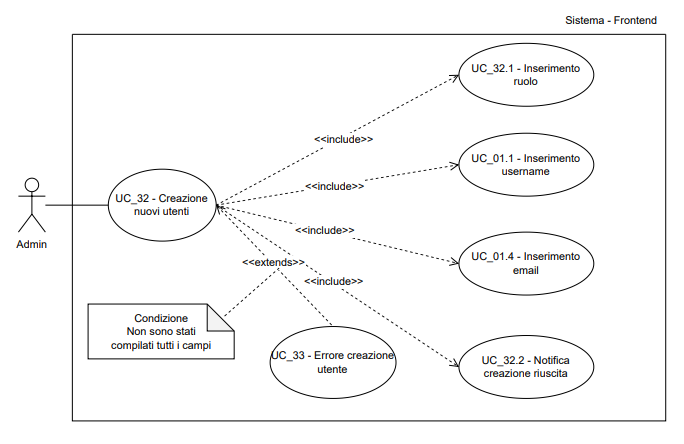
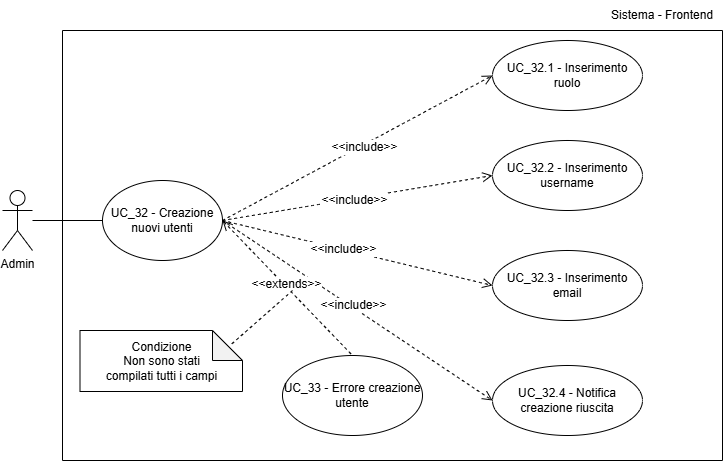
Modifiche sottocasi

diff --git a/src/RTB/Documenti Esterni/Analisi dei Requisiti/content/uc/UC_32.tex b/src/RTB/Documenti Esterni/Analisi dei Requisiti/content/uc/UC_32.tex
@@ -13,10 +13,10 @@
 	\item \textbf{Scenario principale}:
 	\begin{enumerate}
 		\item L'Admin inserisce il ruolo $\rightarrow$ Vedi \hyperref[uc_32.1]{UC\_32.1}
-		\item L'Admin inserisce lo username $\rightarrow$ Vedi \hyperref[uc_01.1]{UC\_01.1}
-		\item L'Admin inserisce l'email $\rightarrow$ Vedi \hyperref[uc_01.4]{UC\_01.4}
+		\item L'Admin inserisce lo username $\rightarrow$ Vedi \hyperref[uc_32.2]{UC\_32.2}
+		\item L'Admin inserisce l'email $\rightarrow$ Vedi \hyperref[uc_32.3]{UC\_32.3}
 		\item L'Admin conferma la creazione del nuovo utente
-		\item Il sistema mostra una notifica di creazione riuscita $\rightarrow$ Vedi \hyperref[uc_32.2]{UC\_32.2}
+		\item Il sistema mostra una notifica di creazione riuscita $\rightarrow$ Vedi \hyperref[uc_32.4]{UC\_32.4}
 	\end{enumerate}
 	\item \textbf{Precondizioni}:
 	\begin{itemize}
@@ -33,10 +33,10 @@
 	\end{itemize}
 	\item \textbf{Inclusioni}:
 	\begin{itemize}
-		\item \hyperref[uc_01.1]{UC\_01.1}
-		\item \hyperref[uc_01.4]{UC\_01.4}
 		\item \hyperref[uc_32.1]{UC\_32.1}
 		\item \hyperref[uc_32.2]{UC\_32.2}
+		\item \hyperref[uc_32.3]{UC\_32.3}
+		\item \hyperref[uc_32.4]{UC\_32.4}
 	\end{itemize}
 	\item \textbf{Estensioni}:
 	\begin{itemize}
@@ -65,8 +65,136 @@
 	\item \textbf{Trigger}: L'Admin deve specificare il ruolo del nuovo Utente
 \end{itemize}
 
-\subsubsubsection{UC\_32.2: Notifica creazione riuscita}
+\subsubsubsection{UC\_32.2: Inserimento username}
 \label{uc_32.2}
+
+\begin{itemize}
+    \item \textbf{Attore$^G$ Principale}: Admin
+    \item \textbf{Scenario Principale}:
+    \begin{enumerate}
+        \item L'Admin inserisce lo username del nuovo Utente
+    \end{enumerate}
+    \item \textbf{Precondizioni}: 
+    \begin{itemize}
+        \item Il sistema è online
+        \item L'Utente non è registrato nel sistema
+    \end{itemize}
+    \item \textbf{Postcondizioni}:
+    \begin{itemize}
+        \item Username inserito correttamente
+    \end{itemize}
+    \item \textbf{Scenari Alternativi}:
+    \begin{itemize}
+        \item L'Admin ha inserito uno username esistente o errato $\rightarrow$ Vedi \hyperref[uc_32.2.1]{UC\_32.2.1}
+    \end{itemize}
+    \item \textbf{Estensioni}:
+    \begin{itemize}
+        \item \hyperref[uc_32.2.1]{UC\_32.2.1}
+        \item \hyperref[uc_32.2.2]{UC\_32.2.2}
+    \end{itemize}
+    \item \textbf{Trigger}: L'Admin vuole inserire l'username per la registrazione
+\end{itemize}
+
+UC\_32.2 presenta una ulteriore estensione, come mostrato in figura:
+
+\begin{figure}[H]
+    \centering 
+    \includegraphics[width=0.8\textwidth]{AnalisiRequisiti/UC_32.2}
+    \caption{Estensioni UC\_32.2: UC\_32.2.1}
+\end{figure}
+
+\subsubsubsubsection{UC\_32.2.1: Username non valido}
+\label{uc_32.2.1}
+
+\begin{itemize}
+    \item \textbf{Attore$^G$ Principale}: Admin
+    \item \textbf{Precondizioni}:
+    \begin{itemize}
+        \item Il sistema è online
+        \item L'Utente non è registrato nel sistema
+        \item L'Admin ha inserito uno username non valido o già esistente
+    \end{itemize}
+    \item \textbf{Postcondizioni}:
+    \begin{itemize}
+        \item L'Admin visualizza un messaggio di errore per Username non valido
+    \end{itemize}
+\end{itemize}
+
+\subsubsubsection{UC\_32.3: Inserimento email}
+\label{uc_32.3}
+
+\begin{figure}[H]
+    \centering 
+    \includegraphics[width=0.8\textwidth]{AnalisiRequisiti/UC_32.3}
+    \caption{Estensioni UC\_32.3: UC\_32.3.1, UC\_32.3.2}
+\end{figure}
+
+\begin{itemize}
+    \item \textbf{Attore$^G$ Principale}: Admin
+    \item \textbf{Scenario Principale}:
+    \begin{enumerate}
+        \item L'Admin inserisce l’email che l'Utente registrato utilizzerà
+    \end{enumerate}
+    \item \textbf{Precondizioni}:
+    \begin{itemize}
+        \item Il sistema è online
+        \item L'Utente non è registrato nel sistema
+    \end{itemize}
+    \item \textbf{Postcondizioni}:
+    \begin{itemize}
+        \item Email inserita correttamente
+    \end{itemize}
+    \item \textbf{Scenari Alternativi}:
+    \begin{itemize}
+        \item L'Utente ha inserito una email non valida $\rightarrow$ Vedi \hyperref[uc_32.3.1]{UC\_32.3.1}
+        \item L'Utente ha inserito una email già presente nel sistema $\rightarrow$ Vedi \hyperref[uc_32.3.2]{UC\_32.3.2}
+    \end{itemize}
+    \item \textbf{Estensioni}:
+    \begin{itemize}
+        \item \hyperref[uc_32.3.1]{UC\_32.3.1}
+        \item \hyperref[uc_32.3.2]{UC\_32.3.2}
+    \end{itemize}
+    \item \textbf{Trigger}: L'Utente vuole inserire l'email
+\end{itemize}
+
+\subsubsubsubsection{UC\_32.3.1: Email non valida}
+\label{uc_32.3.1}
+
+\begin{itemize} 
+    \item \textbf{Attore$^G$ Principale}: Utente
+    \item \textbf{Precondizioni}:
+    \begin{itemize}
+        \item Il sistema è online
+        \item L'Utente non è registrato nel sistema
+        \item L'Utente ha inserito una email in un formato non corretto
+    \end{itemize}
+    \item \textbf{Postcondizioni}:
+    \begin{itemize}
+        \item Messaggio di errore visibile all'Utente 
+    \end{itemize}
+\end{itemize}
+
+
+\subsubsubsubsection{UC\_32.3.2: Email già presente}
+\label{uc_32.3.2}
+
+\begin{itemize}
+    \item \textbf{Attore$^G$ Principale}: Utente
+    \item \textbf{Precondizioni}:
+    \begin{itemize}
+        \item Il sistema è online
+        \item L'Utente non è registrato nel sistema
+        \item L'Utente ha inserito una email già presente nel sistema
+    \end{itemize}
+    \item \textbf{Postcondizioni}:
+    \begin{itemize}
+        \item Link HTML per andare alla pagina di login
+        \item L'Utente visualizza un messaggio di errore
+    \end{itemize}
+\end{itemize}
+
+\subsubsubsection{UC\_32.4: Notifica creazione riuscita}
+\label{uc_32.4}
 
 \begin{itemize}
     \item \textbf{Attore$^G$ Principale}: Admin

diff --git a/src/RTB/Documenti Esterni/Analisi dei Requisiti/content/uc/UC_26.tex b/src/RTB/Documenti Esterni/Analisi dei Requisiti/content/uc/UC_26.tex
@@ -46,7 +46,7 @@
 		\item \hyperref[uc_26.5]{UC\_26.5}
 		\item \hyperref[uc_27]{UC\_27}
 	\end{itemize}
-	\item \textbf{Trigger}: Il Cliente deve poter confermare e inviare l'ordine con un semplice comando, per completare l'acquisto in modo rapido.
+	\item \textbf{Trigger}: Il Cliente vuole confermare e inviare l'ordine con un comando, per completare l'acquisto.
 \end{itemize}
 
 \subsubsubsection{UC\_26.1: Digita comando /invio}
@@ -74,28 +74,112 @@
     \item \textbf{Attore$^G$ Principale}: Cliente
     \item \textbf{Scenario principale}:
     \begin{enumerate}
-        \item Per ogni articolo presente nel carrello, il sistema ne visualizza le informazioni $\rightarrow$ Vedi \hyperref[uc_19.1]{UC\_19.1}
-        \item Per ciascun articolo, il Cliente visualizza:
-        \begin{itemize}
-            \item Il nome $\rightarrow$ Vedi \hyperref[uc_19.1.1]{UC\_19.1.1}
-            \item Il prezzo $\rightarrow$ Vedi \hyperref[uc_19.1.2]{UC\_19.1.2}
-            \item La quantità $\rightarrow$ Vedi \hyperref[uc_19.1.3]{UC\_19.1.3}
-        \end{itemize}
+        \item Il Cliente visualizza la lista di articoli presenti nel carrello $\rightarrow$ Vedi \hyperref[uc_26.2.1]{UC\_26.2.1}
     \end{enumerate}
     \item \textbf{Precondizioni}:
     \begin{itemize}
         \item Il carrello non è vuoto.
-        \item Il Cliente ha digitato il comando \verb|/invio| e il sistema sta mostrando il riepilogo.
+        \item Il Cliente ha digitato il comando \verb|/invio| e il sistema sta mostrando il riepilogo
     \end{itemize}
     \item \textbf{Postcondizioni}:
     \begin{itemize}
-        \item Le informazioni di ogni articolo nel carrello sono state visualizzate nel riepilogo.
+        \item Il Cliente visualizza gli articoli presenti nel carrello tramite riepilogo
     \end{itemize}
     \item \textbf{Inclusioni}:
 	\begin{itemize}
-        \item \hyperref[uc_19.1]{UC\_19.1}
+        \item \hyperref[uc_26.2.1]{UC\_26.2.1}
 	\end{itemize}
-    \item \textbf{Trigger}: Il Cliente vuole visualizzare i dettagli del singolo articolo
+    \item \textbf{Trigger}: Il Cliente vuole inviare l'ordine ma prima è necessario che verifichi gli articoli presenti nel carrello
+\end{itemize}
+
+\subsubsubsection{UC\_26.2.1: Visualizza singolo elemento carrello}
+\label{uc_26.2.1}
+
+\begin{itemize}
+    \item \textbf{Attore$^G$ Principale}: Cliente
+	\item \textbf{Scenario principale}: 
+	\begin{enumerate}
+		\item Il Cliente visualizza i singoli elementi presenti nel carrello
+	\end{enumerate}
+	\item \textbf{Precondizioni}: 
+	\begin{itemize}
+		\item Il Cliente sta visualizzando il riepilogo del carrello $\rightarrow$ Vedi \hyperref[uc_26.2]{UC\_26.2}
+		\item Esiste almeno un articolo nel carrello
+	\end{itemize}
+	\item \textbf{Postcondizioni}:
+	\begin{itemize}
+		\item Il Cliente visualizza il singolo articolo presente nal carrello
+	\end{itemize}
+	\item \textbf{Inclusioni}:
+	\begin{itemize}
+		\item \hyperref[uc_26.2.1.1]{UC\_26.2.1.1}
+		\item \hyperref[uc_26.2.1.2]{UC\_26.2.1.2}
+		\item \hyperref[uc_26.2.1.3]{UC\_26.2.1.3}
+	\end{itemize}
+\end{itemize}
+
+UC\_26.2.1 presenta una ulteriore inclusione, come mostrato in figura:
+
+\begin{figure}[H]
+	\centering
+	\includegraphics[width=0.8\textwidth]{AnalisiRequisiti/UC_26.2.1}
+	\caption{Inclusioni UC\_26.2.1: UC\_26.2.1.1, UC\_26.2.1.2, UC\_26.2.1.3}
+\end{figure}
+
+\subsubsubsubsection{UC\_26.2.1.1: Visualizza nome articolo}
+\label{uc_26.2.1.1}
+\begin{itemize}
+    \item \textbf{Attore$^G$ Principale}: Cliente
+	\item \textbf{Scenario principale}: 
+	\begin{enumerate}
+		\item Il Cliente visualizza il nome dell'articolo
+	\end{enumerate}
+	\item \textbf{Precondizioni}: 
+	\begin{itemize}
+		\item Il Cliente sta visualizzando un elemento del carrello $\rightarrow$ Vedi \hyperref[uc_26.2.1]{UC\_26.2.1}
+	\end{itemize}
+	\item \textbf{Postcondizioni}:
+	\begin{itemize}
+		\item Il nome dell'articolo è visibile
+	\end{itemize} 
+\end{itemize}
+
+%--------------------------------------------------------------------
+\subsubsubsubsection{UC\_26.2.1.2: Visualizza prezzo articolo}
+\label{uc_26.2.1.2}
+\begin{itemize}
+    \item \textbf{Attore$^G$ Principale}: Cliente
+	\item \textbf{Scenario principale}: 
+	\begin{enumerate}
+		\item Il Cliente visualizza il prezzo dell'articolo
+	\end{enumerate}
+	\item \textbf{Precondizioni}: 
+	\begin{itemize}
+		\item Il Cliente sta visualizzando un elemento del carrello $\rightarrow$ Vedi \hyperref[uc_26.2.1]{UC\_26.2.1}
+	\end{itemize}
+	\item \textbf{Postcondizioni}:
+	\begin{itemize}
+		\item Il prezzo dell'articolo è visibile
+	\end{itemize} 
+\end{itemize}
+
+%--------------------------------------------------------------------
+\subsubsubsubsection{UC\_26.2.1.3: Visualizza quantità articolo}
+\label{uc_26.2.1.3}
+\begin{itemize}
+    \item \textbf{Attore$^G$ Principale}: Cliente
+	\item \textbf{Scenario principale}: 
+	\begin{enumerate}
+		\item Il Cliente visualizza la quantità dell'articolo
+	\end{enumerate}
+	\item \textbf{Precondizioni}: 
+	\begin{itemize}
+		\item Il Cliente sta visualizzando un elemento del carrello $\rightarrow$ Vedi \hyperref[uc_26.2.1]{UC\_26.2.1}
+	\end{itemize}
+	\item \textbf{Postcondizioni}:
+	\begin{itemize}
+		\item La quantità dell'articolo è visibile
+	\end{itemize} 
 \end{itemize}
 
 \subsubsubsection{UC\_26.3: Conferma invio ordine}

diff --git a/src/RTB/Documenti Esterni/Analisi dei Requisiti/content/uc/UC_25.tex b/src/RTB/Documenti Esterni/Analisi dei Requisiti/content/uc/UC_25.tex
@@ -41,12 +41,12 @@
     \item \textbf{Attore$^G$ Principale}: Admin
 	\item \textbf{Scenario principale}:
 	\begin{enumerate}
-		\item Il sistema presenta la metrica (es. in un grafico o valore numerico) relativa alla durata media di risposta del chatbot
+		\item Il sistema presenta la metrica relativa alla durata media di risposta del chatbot
 		\item L'Admin visualizza la metrica
 	\end{enumerate}
 	\item \textbf{Precondizioni}:
 	\begin{itemize}
-		\item L'Admin si trova nella pagina delle performance (UC\_25)
+		\item L'Admin si trova nella pagina delle performance $\rightarrow$ Vedi \hyperref[uc_25]{UC\_25}
 		\item Il sistema ha dati sufficienti per calcolare la metrica
 	\end{itemize}
 	\item \textbf{Postcondizioni}:
@@ -62,12 +62,12 @@
     \item \textbf{Attore$^G$ Principale}: Admin
 	\item \textbf{Scenario principale}:
 	\begin{enumerate}
-		\item Il sistema presenta la metrica (es. in un grafico o valore numerico) relativa alla durata media di permanenza degli utenti
+		\item Il sistema presenta la metrica relativa alla durata media di permanenza degli utenti
 		\item L'Admin visualizza la metrica
 	\end{enumerate}
 	\item \textbf{Precondizioni}:
 	\begin{itemize}
-		\item L'Admin si trova nella pagina delle performance (UC\_25)
+		\item L'Admin si trova nella pagina delle performance $\rightarrow$ Vedi \hyperref[uc_25]{UC\_25}
 		\item Il sistema ha dati sufficienti per calcolare la metrica
 	\end{itemize}
 	\item \textbf{Postcondizioni}:

diff --git a/src/RTB/Documenti Esterni/Analisi dei Requisiti/content/uc/UC_01.tex b/src/RTB/Documenti Esterni/Analisi dei Requisiti/content/uc/UC_01.tex
@@ -61,7 +61,8 @@
     \end{itemize}
     \item \textbf{Scenari Alternativi}:
     \begin{itemize}
-        \item L'Utente ha inserito uno username esistente $\rightarrow$ Vedi \hyperref[uc_01.1.1]{UC\_01.1.1}
+        \item L'Utente ha inserito uno username non valido $\rightarrow$ Vedi \hyperref[uc_01.1.1]{UC\_01.1.1}
+        \item L'Utente ha inserito uno username già esistente $\rightarrow$ Vedi \hyperref[uc_01.1.2]{UC\_01.1.2}
     \end{itemize}
     \item \textbf{Estensioni}:
     \begin{itemize}
@@ -280,7 +281,7 @@
     \end{itemize}
     \item \textbf{Postcondizioni}:
     \begin{itemize}
-        \item Link HTML per andare alla pagina di login
+        \item L'Utente visualizza il link HTML per andare alla pagina di login
         \item L'Utente visualizza un messaggio di errore
     \end{itemize}
 \end{itemize}

diff --git a/src/RTB/Documenti Esterni/Analisi dei Requisiti/content/uc/UC_02.tex b/src/RTB/Documenti Esterni/Analisi dei Requisiti/content/uc/UC_02.tex
@@ -22,7 +22,7 @@
     \end{itemize}
     \item \textbf{Postcondizioni}:
     \begin{itemize}
-        \item L'Utente è ora riconosciuto con il suo ruolo
+        \item L'Utente è ora riconosciuto come Cliente
     \end{itemize}
     \item \textbf{Scenari Alternativi}:
     \begin{itemize}
